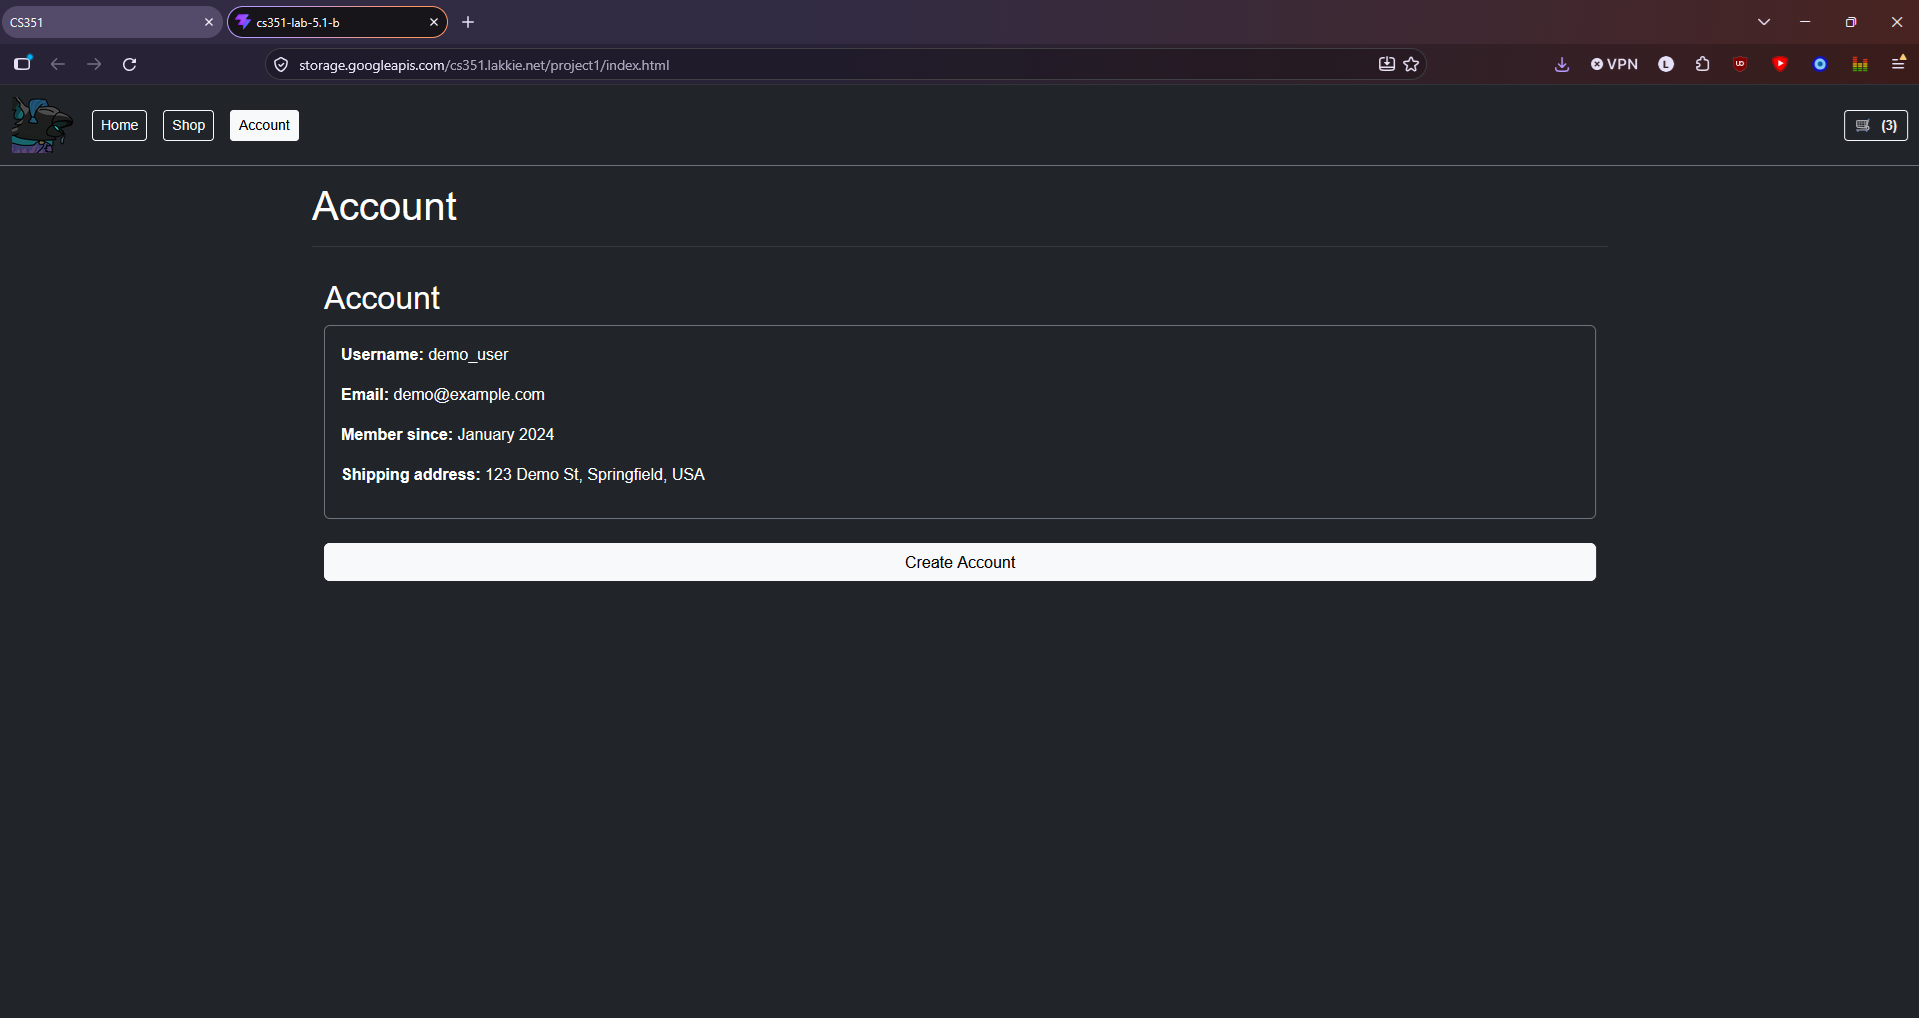
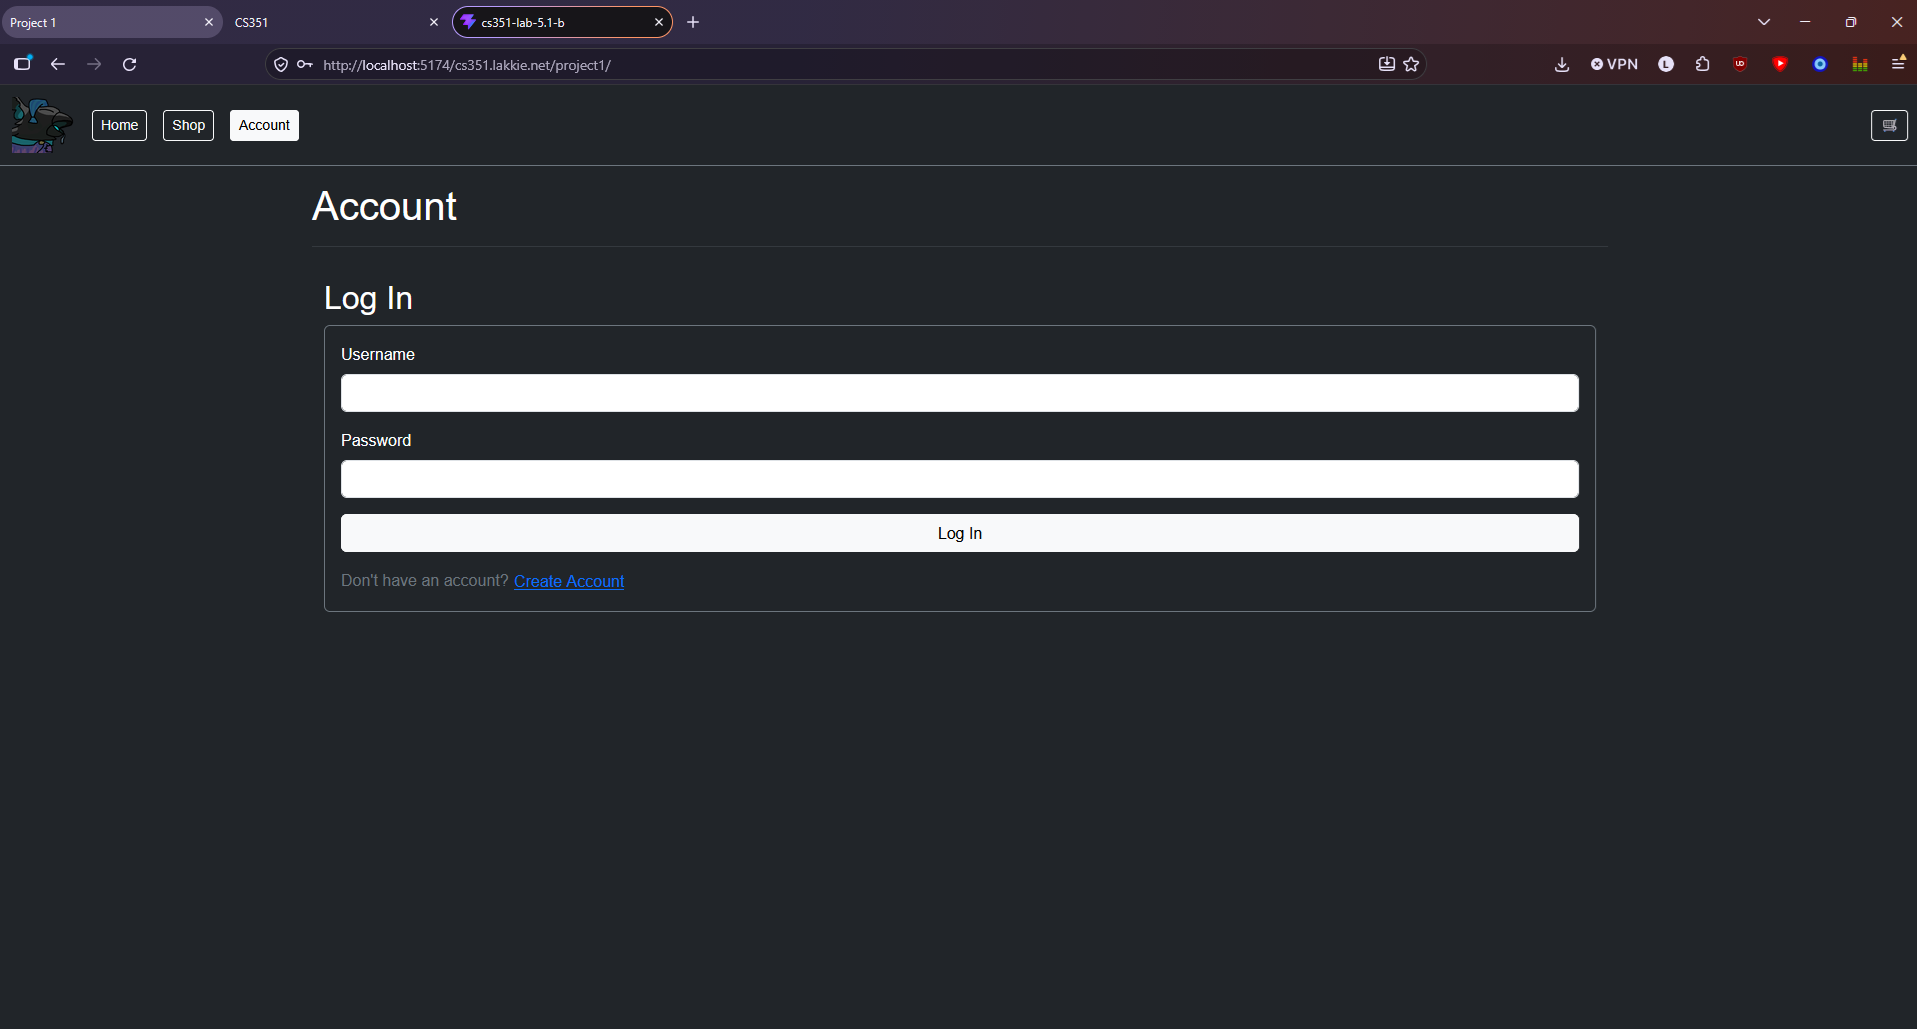
Updated account view to meet project reqs

diff --git a/src/views/AccountView.jsx b/src/views/AccountView.jsx
@@ -6,25 +6,45 @@ export class AccountView extends Component {
 
     return (
       <div className="container py-3">
-        <h2>Account</h2>
-        <div className="card bg-dark text-white border-secondary">
-          <div className="card-body">
-            <p><strong>Username:</strong> demo_user</p>
-            <p><strong>Email:</strong> demo@example.com</p>
-            <p><strong>Member since:</strong> January 2024</p>
-            <p><strong>Shipping address:</strong> 123 Demo St, Springfield, USA</p>
+        <h2>Log In</h2>
+        <form
+          className="card bg-dark text-white border-secondary p-3"
+          onSubmit={(event) => event.preventDefault()}
+        >
+          <div className="mb-3">
+            <label className="form-label" htmlFor="login-username">Username</label>
+            <input
+              id="login-username"
+              className="form-control"
+              name="username"
+              autoComplete="username"
+              required
+            />
           </div>
-        </div>
-
-        <div className="mt-4">
+          <div className="mb-3">
+            <label className="form-label" htmlFor="login-password">Password</label>
+            <input
+              id="login-password"
+              className="form-control"
+              name="password"
+              type="password"
+              autoComplete="current-password"
+              required
+            />
+          </div>
           <button
-            type="button"
-            className="btn btn-light w-100"
-            onClick={onGoToCreateAccount}
+            type="submit"
+            className="btn btn-light"
           >
-            Create Account
+            Log In
           </button>
-        </div>
+          <p className="text-secondary mt-3 mb-0">
+            Don&apos;t have an account?{' '}
+            <button type="button" className="btn btn-link p-0" onClick={onGoToCreateAccount}>
+              Create Account
+            </button>
+          </p>
+        </form>
       </div>
     );
   }
